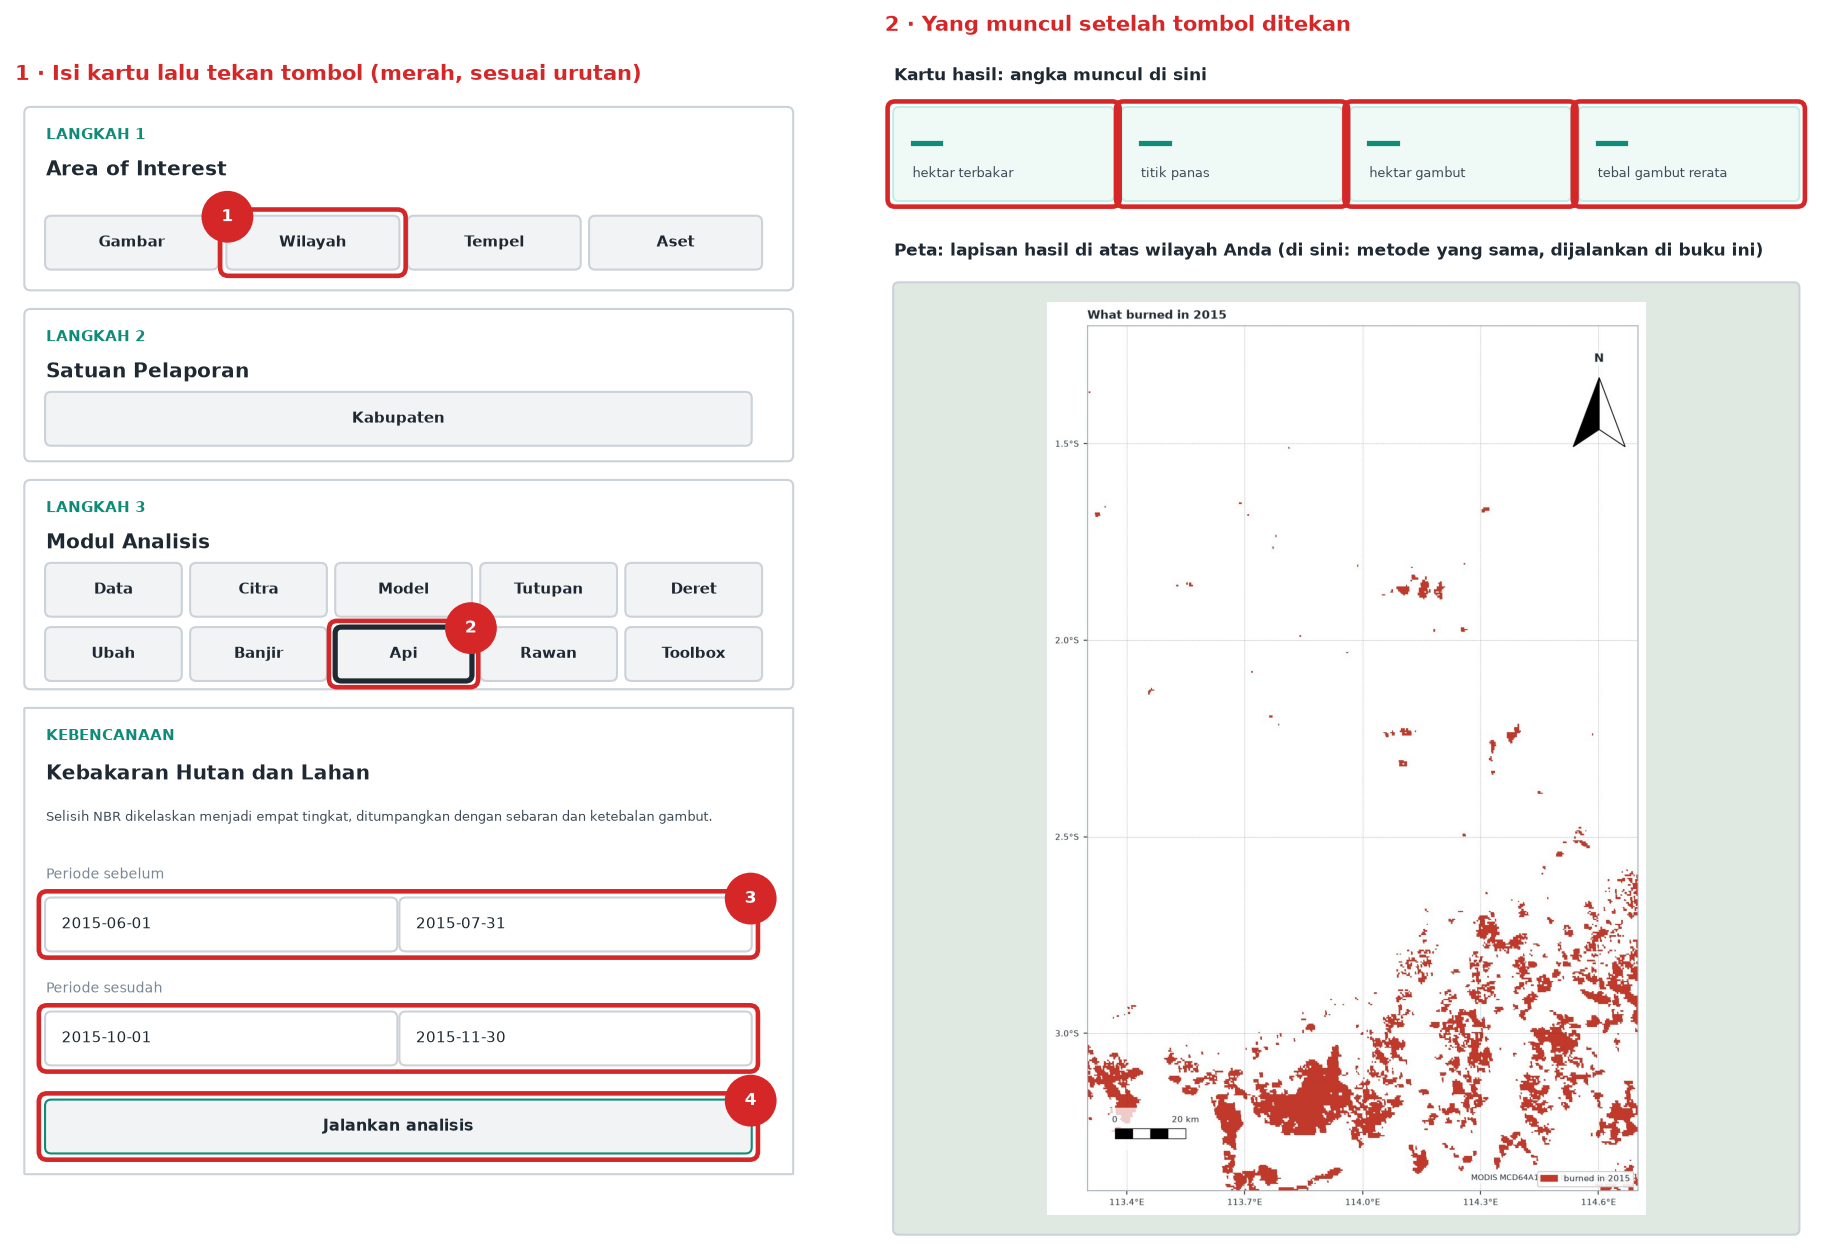
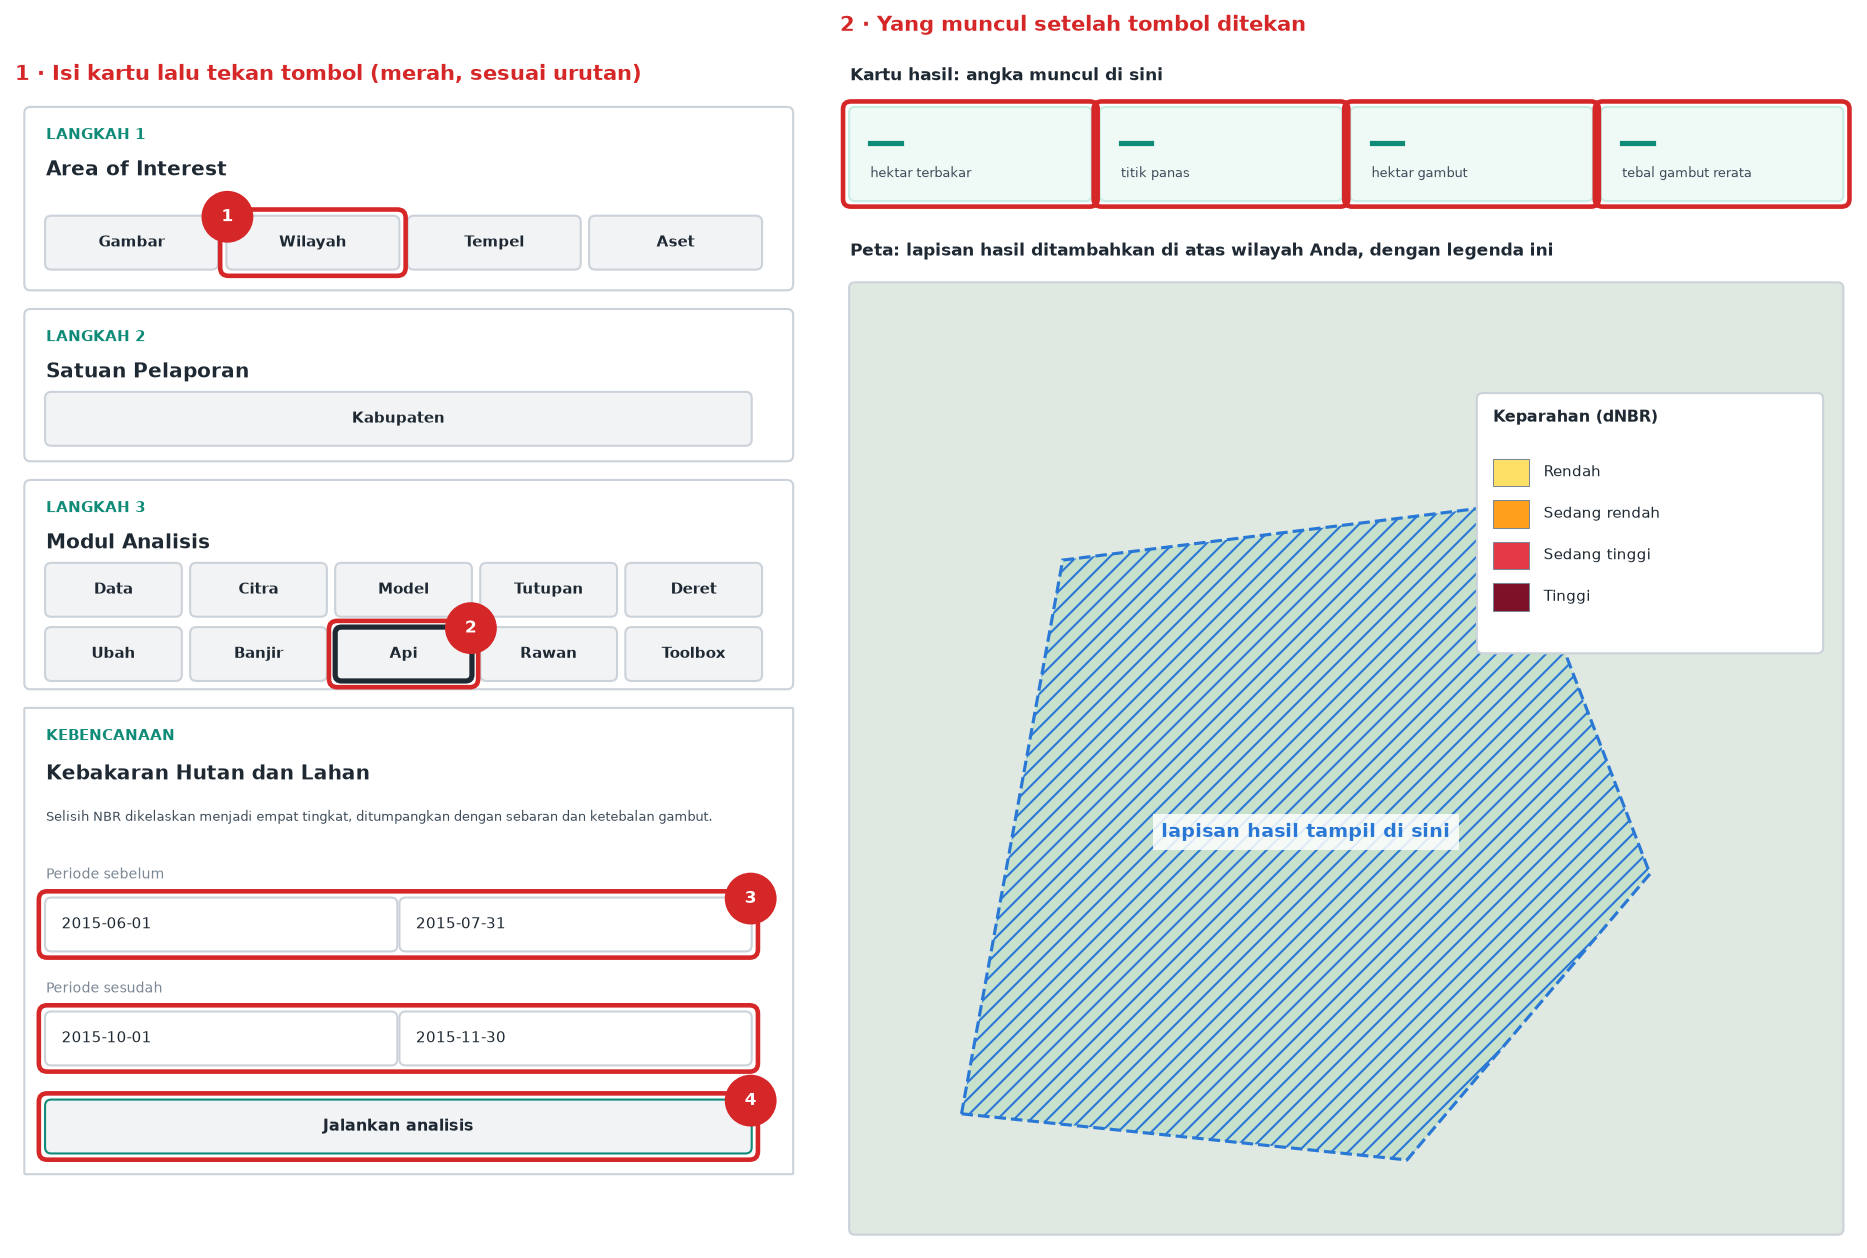
P6 IJB: after-screens show only what the app draws (result cards, legend from the app code); book figures labelled as code examples, not app output
Claude-Session: https://claude.ai/code/session_01WoXYqbyHPukUWTfe4XsRAY

diff --git a/scripts/py/ch00f_ijb_app.py b/scripts/py/ch00f_ijb_app.py
@@ -53,7 +53,7 @@ CARDS = {
     "Data": ("KATALOG", "Penjelajah Data", "Seluruh dataset yang terpasang. Tampilkan di AOI, unduh statistik per wilayah.",
              [("Kelompok", "select", "Curah hujan", 1),
               ("Lapisan", "select", "CHIRPS harian, akumulasi periode", 2),
-              ("Rentang tanggal untuk lapisan deret waktu", "date", ("1991-01-01", "2020-12-31"), 3)],
+              ("Rentang tanggal untuk lapisan deret waktu", "date", ("2023-01-01", "2023-12-31"), 3)],
              "Tampilkan lapisan", ["rerata di AOI", "jenis"]),
     "Citra": ("CITRA", "Komposit Sentinel-2", "Lima cara menyusun citra terbaik dari seluruh rentang tanggal.",
               [("Metode komposit", "select", "Cloud Score Plus (terbaik)", 1),
@@ -84,8 +84,9 @@ CARDS = {
                ("Ambang magnitudo perubahan", "slider", "0.20", None)],
               "Jalankan analisis", ["tahun gangguan dominan", "luas terganggu", "umur rerata", "amplitudo musiman"]),
     "Ubah": ("ANALISIS", "Deteksi Perubahan", "Empat metode. Untuk waktu kejadian yang presisi, gunakan modul Deret.",
-             [("Metode", "select", "Transisi Dynamic World", 1),
-              ("Periode pertama", "date", ("2017-01-01", "2017-12-31"), 2),
+             [("Metode", "select", "Selisih indeks", 1),
+              ("Indeks", "select", "NDVI", None),
+              ("Periode pertama", "date", ("2019-01-01", "2019-12-31"), 2),
               ("Periode kedua", "date", ("2024-01-01", "2024-12-31"), 2),
               ("Ambang batas perubahan", "slider", "0.20", None)],
              "Jalankan deteksi", ["hektar bertambah", "hektar berkurang"]),
@@ -109,21 +110,35 @@ CARDS = {
                ("", "button", "Tandai AMAN → klik peta", 3)],
               "Latih dari titik manual", ["akurasi validasi", "kappa", "hektar rawan tinggi", "jiwa di zona rawan"]),
 }
-# A real result of the same method, made in this book, shown on the "after" map.
-RESULT = {"Data": "ch29-map-sequential.jpg", "Citra": "ch09-truecolour.jpg",
-          "Model": "ch33-eth-map.jpg", "Tutupan": "ch16-rf.jpg", "Deret": "ch44-age.jpg",
-          "Ubah": "ch21-new-built.jpg", "Banjir": "ch24-flood-map.jpg",
-          "Api": "ch37-burn-2015.jpg", "Rawan": "ch50-score.jpg"}
+# The legend each module puts on the map, copied from the app's code:
+# ("ramp", title, palette, min, max) or ("class", title, names, colours).
+LEGEND = {
+    "Data": ("ramp", "CHIRPS harian, akumulasi periode",
+             ["#ffffff", "#c7e9b4", "#7fcdbb", "#41b6c4", "#2c7fb8", "#253494"], 0, 3000),
+    "Citra": None,                                   # true colour: no legend
+    "Model": ("ramp", "Tinggi tajuk, meter",
+              ["#ffffcc", "#c2e699", "#78c679", "#31a354", "#006837"], 0, 35),
+    "Tutupan": ("class", "Tutupan lahan", ["hutan", "sawah", "permukiman", "air"],
+                ["#1a9850", "#fee08b", "#d73027", "#2c7fb8"]),
+    "Deret": ("ramp", "Umur tegakan, tahun", ["#fee08b", "#a6d96a", "#1a9850", "#006837"], 0, 25),
+    "Ubah": ("ramp", "Selisih NDVI", ["#c4281b", "#f5f5f5", "#397d49"], -0.5, 0.5),
+    "Banjir": ("class", "Banjir", ["Area tergenang"], ["#0b2f6b"]),
+    "Api": ("class", "Keparahan (dNBR)", ["Rendah", "Sedang rendah", "Sedang tinggi", "Tinggi"],
+            ["#ffe066", "#ff9f1c", "#e63946", "#7d1128"]),
+    "Rawan": ("ramp", "Indeks kerawanan", ["#1a9850", "#a6d96a", "#ffffbf", "#fdae61", "#d73027"], 0, 1),
+}
 TEXT = {
     "en": {"before": "1 · Set the card and press the button (red, in order)",
            "after": "2 · What appears after you press",
            "metrics": "Result cards: the numbers fill in here",
-           "map": "Map: the result layer over your area (here: the same method, run in this book)",
+           "map": "Map: the result layer is added over your area, with this legend",
+           "here": "the result layer appears here", "own": "(colours follow your own classes)",
            "screen": "The IJB screen (labels as in the app)"},
     "id": {"before": "1 · Isi kartu lalu tekan tombol (merah, sesuai urutan)",
            "after": "2 · Yang muncul setelah tombol ditekan",
            "metrics": "Kartu hasil: angka muncul di sini",
-           "map": "Peta: lapisan hasil di atas wilayah Anda (di sini: metode yang sama, dijalankan di buku ini)",
+           "map": "Peta: lapisan hasil ditambahkan di atas wilayah Anda, dengan legenda ini",
+           "here": "lapisan hasil tampil di sini", "own": "(warna mengikuti kelas Anda sendiri)",
            "screen": "Layar IJB (label sesuai aplikasi)"},
 }
 
@@ -240,14 +255,37 @@ def click_figure(module, lang):
     metric_cards(b, CARDS[module][5], 0.1, 11.3, 9.8, highlight=True)
     b.text(0.1, 10.7, t["map"], fontsize=8, color=INK, weight="bold")
     box(b, 0.1, 0.1, 9.8, 10.3, fc="#dfe9e1")
-    img = plt.imread(IMAGES / RESULT[module])
-    h, w = img.shape[:2]
-    bw, bh = 9.4, 9.9
-    s = min(bw / w, bh / h)
-    dw, dh = w * s, h * s
-    b.imshow(img, extent=[0.3 + (bw - dw) / 2, 0.3 + (bw + dw) / 2,
-                          0.3 + (bh - dh) / 2, 0.3 + (bh + dh) / 2], zorder=5)
+    b.add_patch(plt.Polygon([[1.2, 1.4], [5.6, 0.9], [8.0, 4.0], [6.6, 8.0], [2.2, 7.4]],
+                            fc="#c7e1cc", ec="#2a78d6", lw=1.5, ls="--", hatch="///"))
+    b.text(4.6, 4.4, t["here"], ha="center", fontsize=9, color="#2a78d6", weight="bold",
+           bbox={"fc": "white", "ec": "none", "alpha": 0.85})
+    legend(b, LEGEND[module], t, 6.3, 8.3)
     return fig
+
+
+def legend(ax, spec, t, x, y):
+    """The app's legend panel, drawn at the top right of the map."""
+    if spec is None:
+        return
+    box(ax, x, y - 0.1 - (0.45 * len(spec[2]) if spec[0] == "class" else 1.2), 3.4,
+        (0.45 * len(spec[2]) if spec[0] == "class" else 1.2) + 1.0, fc="#ffffff")
+    ax.text(x + 0.15, y + 0.6, spec[1], fontsize=7.5, weight="bold", color=INK)
+    if spec[0] == "class":
+        for i, (n, c) in enumerate(zip(spec[2], spec[3])):
+            yy = y + 0.05 - i * 0.45
+            ax.add_patch(plt.Rectangle((x + 0.15, yy - 0.15), 0.35, 0.3, fc=c, ec=GREY, lw=0.5))
+            ax.text(x + 0.65, yy, n, fontsize=7, va="center")
+        if spec[1] == "Tutupan lahan":
+            ax.text(x + 0.15, y - 0.45 * len(spec[2]) + 0.05, t["own"], fontsize=6, color=GREY)
+    else:
+        pal, lo, hi = spec[2], spec[3], spec[4]
+        n = 60
+        for i in range(n):
+            c = plt.matplotlib.colors.LinearSegmentedColormap.from_list("p", pal)(i / (n - 1))
+            ax.add_patch(plt.Rectangle((x + 0.15 + i * 3.1 / n, y - 0.1), 3.1 / n, 0.4, fc=c,
+                                       ec="none"))
+        ax.text(x + 0.15, y - 0.45, f"{lo:g}", fontsize=7)
+        ax.text(x + 3.25, y - 0.45, f"{hi:g}", fontsize=7, ha="right")
 
 
 def layout_figure(lang):
